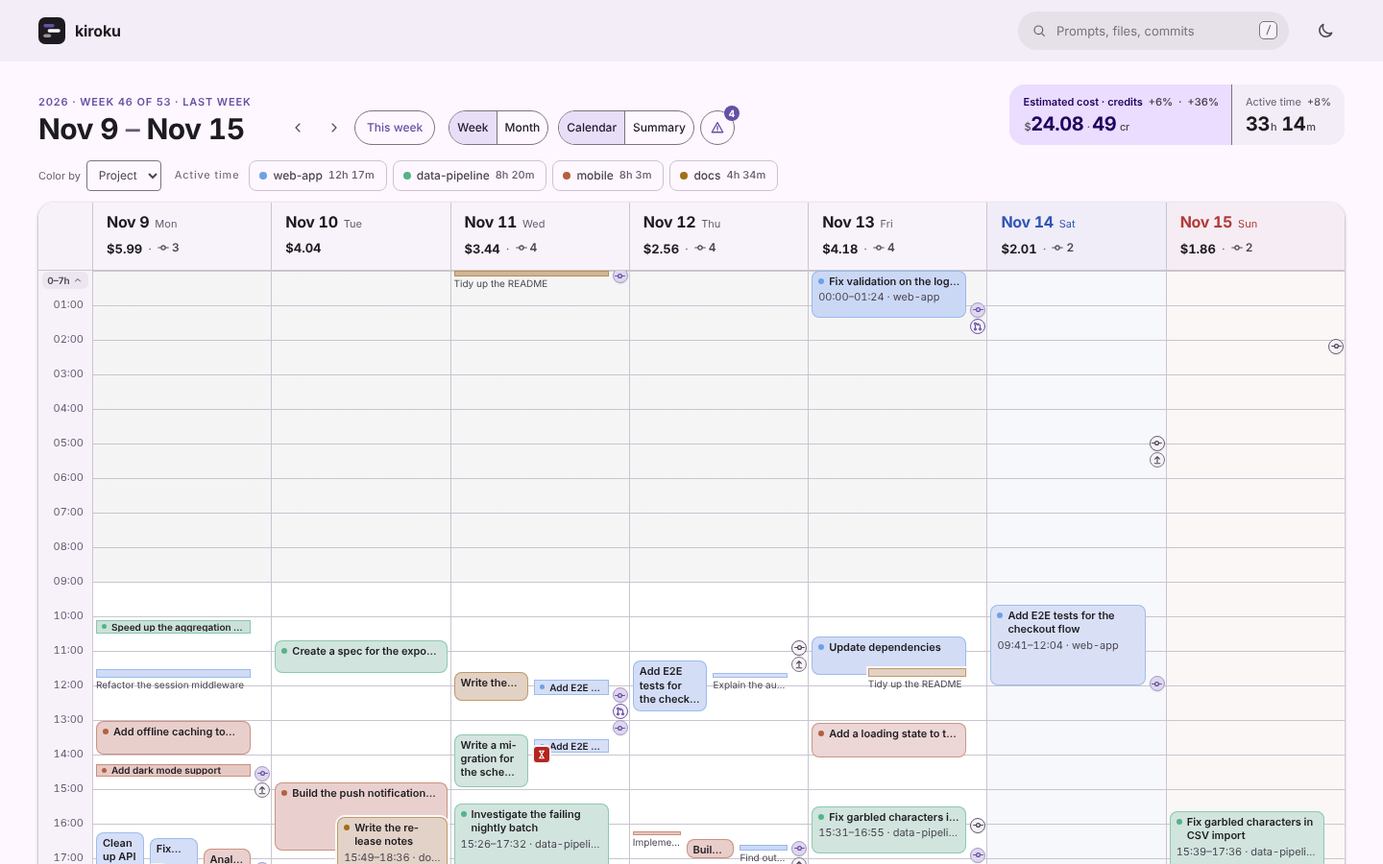
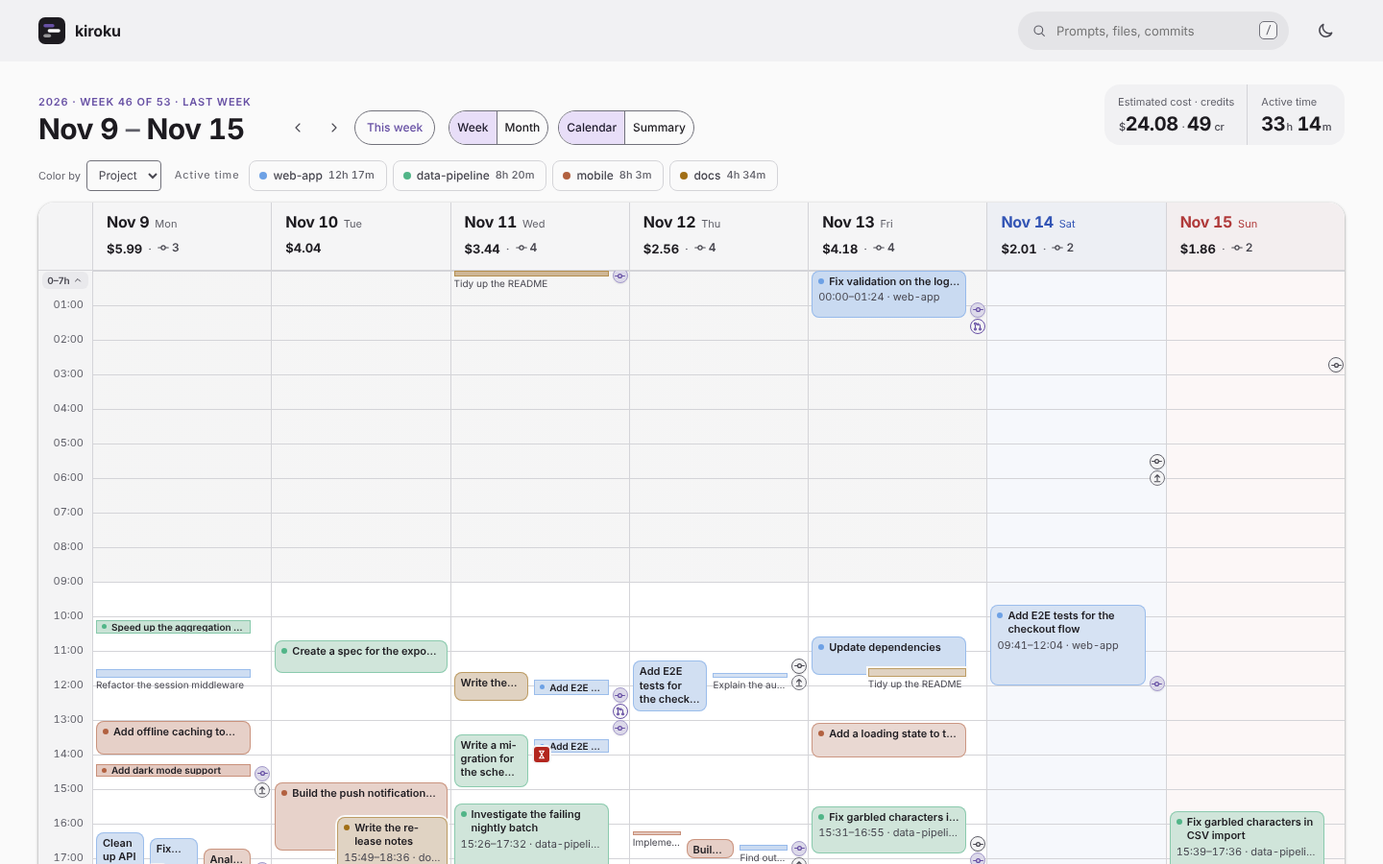
Neutral light theme, two-column summary without Advice, band without deltas
- Light theme: plain grays for backgrounds and surfaces (also on the
  loading and key hop pages)
- Band: no change-from-previous next to each figure and one style for
  all figures; the change shows next to the value in the breakdown
- Summary: drop the Advice card; chart cards in two columns, with By
  agent and a lone card across the full width
- Trend metric: a drop-down list at 820px and below, where the
  scrolling switch hid the metrics past its edge
- Hide the period row's Worth a look list for now; Change first and the
  summary's marks open the same dialogs
- Chart legends keep a plain label when formulas are hidden

diff --git a/internal/web/js/insight.js b/internal/web/js/insight.js
@@ -115,19 +115,8 @@ function insChart(k){
     sy = t("{x}: {r} of {n} {unit} from the highest; {d} from the median {m}{pc}", {x: (b.part ? t("pace") + " " : "") + fmtM(k, b.v), r, n: all.length, unit: insUnit(all.length), d: (d >= 0 ? "+" : "−") + fmtM(k, Math.abs(d)), m: fmtM(k, b.med), pc: pc == null ? "" : ` (${pc >= 0 ? "+" : ""}${pc}%)`}); }
   const th = !b || b.q1 == null ? "" : b.pos === "typical" ? t("Within the middle half of your past {unit}", {unit: insNoun()}) : b.better === false ? t("Outside the middle half, on the worse side; the advice lists where it came from") : b.better ? t("Outside the middle half, on the better side; keep what you changed") : b.pos === "high" ? t("Above the 75th pct of your past {unit}", {unit: insNoun()}) : t("Below the 25th pct of your past {unit}", {unit: insNoun()});
   return `${say(sy, th)}<figure class="insfig"><svg viewBox="0 0 ${W} ${Hh}" role="img" aria-label="${esc(t("{metric} over the last {n} {unit}", {metric: insName(k), n, unit: insUnit(n)}))}">${ticks}${band}${bars}</svg>
-    <figcaption><span class="lg iband">${esc(t("Middle half of the last {n} {unit}", {n: b ? b.n : 0, unit: insUnit(b ? b.n : 0)}))}</span><span class="lg imed">${fx(t("median"))}</span>${proj != null ? `<span class="lg iproj">${fx(`${t("pace")} = ${t("so far")} × ${t("period")} ÷ ${t("elapsed")}`)}</span>` : ""}<span class="lg iout">${fx(`< ${LO()} − 1.5×${SP()} ${t("or")} > ${HI()} + 1.5×${SP()}`)}</span></figcaption>
+    <figcaption><span class="lg iband">${esc(t("Middle half of the last {n} {unit}", {n: b ? b.n : 0, unit: insUnit(b ? b.n : 0)}))}</span><span class="lg imed">${fx(t("median"), "", t("median"))}</span>${proj != null ? `<span class="lg iproj">${fx(`${t("pace")} = ${t("so far")} × ${t("period")} ÷ ${t("elapsed")}`, "", t("At this pace"))}</span>` : ""}<span class="lg iout">${fx(`< ${LO()} − 1.5×${SP()} ${t("or")} > ${HI()} + 1.5×${SP()}`, "", t("Periods far outside the 25th–75th pct"))}</span></figcaption>
     <p class="sr">${esc(list)} — ${esc(insPosText(b))}</p></figure>`;
-}
-/* 改善のアドバイス：見直す候補を効き目の大きい順に 3 つまで。何が・いつもと比べて・何をするか（指標の説明の「打てる手」）と、該当するセッション。
-   よくなった指標も 1 つ返す（続けることがわかるように） */
-function insAdvice(F){
-  const items = F.slice(0, 3).map(f => { const id = GOTO[f.k] || f.k, b = MET[f.k] ? insBase(f.k) : null, h = H()[f.k] || H()[id] || {};
-    return `<li class="insa" title="${esc(f.L.why)}"><div class="insw"><b>${esc(f.L.see)}</b>${b ? insChip(b) : ""}${f.stake && f.stake.c >= 0.01 ? fx(`${t("cost involved")} = Σ ${usd(f.stake.c)} (${plural(f.stake.n, "session")})`, "", t("{usd} in {sessions}", {usd: usd(f.stake.c), sessions: plural(f.stake.n, "session")})) : ""}</div>${h.a ? `<p class="todo">${ico("ai", "ti")}${esc(h.a)}</p>` : ""}
-      ${f.ids.length || f.k === "repeats" ? `<button class="pill insgo" type="button" data-goto="${esc(id)}">${esc(f.ids.length ? plural(f.ids.length, "session") : t("Details"))}</button>` : ""}</li>`; });
-  const good = Object.keys(MET).map(k => insBase(k)).filter(b => b && b.better).sort((a, b) => Math.abs(b.v - b.med) / ((b.q3 - b.q1) || 1) - Math.abs(a.v - a.med) / ((a.q3 - a.q1) || 1))[0];
-  const keep = good ? `<p class="inskeep">${ico("check")}${esc(insName(good.k))} ${insChip(good)}</p>` : "";
-  if (!items.length) return `${keep}<p class="note">${esc(t("Nothing to change"))}</p>`;
-  return `<ol class="insadv">${items.join("")}</ol>${keep}`;
 }
 /* 見直す候補の対象の費用（そのセッションの推定費用の合計）。費用で表せない候補（利用上限・繰り返し・長すぎるプロンプト）は null */
 function insStake(f){
@@ -149,19 +138,25 @@ function insightH(F){
   const tabs = avail.map(x => `<button type="button" data-ins="${x}" aria-pressed="${x === k}" title="${esc(insName(x))}">${esc(INS_SHORT()[x])}</button>`).join("");
   const useCostW = ((period().S || {}).days || []).some(d => d.cost > 0); // 費用の記録がなければ、時間・件数の図になるので見出しもそう言う
   const card = (title, body, cls = "") => body ? `<div class="inscol${cls}"><h4>${esc(title)}</h4>${body}</div>` : "";
+  // グラフのカードは 2 列に並べる。エージェント別の表は幅いっぱい。2 枚の組にならずに 1 枚だけ残ったカードも幅いっぱいにする（空きを作らない）
+  const sel = `<select class="insksel" aria-label="${esc(t("Metric"))}">${avail.map(x => `<option value="${x}"${x === k ? " selected" : ""}>${esc(INS_SHORT()[x])}</option>`).join("")}</select>`; // 狭い画面では、切り替えの代わりに選択リスト（横に隠さない）
+  const cards = [
+    {h: `<div class="inscol"><div class="inshead"><h4>${esc(t("Trend"))}</h4><div class="segc insk trendk" role="group" aria-label="${esc(t("Metric"))}">${tabs}</div>${sel}</div>${insChart(k)}</div>`},
+    {h: card(useCostW ? (st.mode === "month" ? t("Cumulative cost vs the previous month") : t("Cumulative cost vs the previous week")) : (st.mode === "month" ? t("Cumulative active time vs the previous month") : t("Cumulative active time vs the previous week")), insCum())},
+    {h: card(t("By agent"), insAgents()), full: true},
+    {h: (b => b ? `<div class="inscol">${b}</div>` : "")(insWhere())}, {h: card(t("Tokens by type"), insTokens())},
+    {h: card(useCostW ? t("Cost by session length") : t("Sessions by length"), insHist())}, {h: card(t("Cost vs outputs per session"), insScatter())},
+    {h: card(t("Outputs"), insOutputs())}, {h: card(t("How you used AI"), insUsage())},
+    {h: card(t("When you worked"), insHeat())}, {h: card(t("How you worked"), insWork())},
+  ].filter(c => c.h);
+  let run = []; const out = [], flush = () => { if (run.length % 2) run[run.length - 1].full = true; out.push(...run); run = []; };
+  cards.forEach(c => { if (c.full){ flush(); out.push(c); } else run.push(c); }); flush();
   return `<section class="insight" aria-labelledby="ins-h"><h3 id="ins-h" class="sr">${esc(t("Overview"))}</h3>${insHeadlines(F)}
-    <div class="insgrid"><div class="insleft"><div class="inscol"><div class="inshead"><h4>${esc(t("Trend"))}</h4><div class="segc insk" role="group" aria-label="${esc(t("Metric"))}">${tabs}</div></div>${insChart(k)}</div>
-    ${card(useCostW ? (st.mode === "month" ? t("Cumulative cost vs the previous month") : t("Cumulative cost vs the previous week")) : (st.mode === "month" ? t("Cumulative active time vs the previous month") : t("Cumulative active time vs the previous week")), insCum())}</div>
-    ${card(t("Advice"), insAdvice(F), " insadvc")}</div>
-    <div class="insrow one">${card(t("By agent"), insAgents())}</div>
-    <div class="insrow two">${(b => b ? `<div class="inscol">${b}</div>` : "")(insWhere())}${card(t("Tokens by type"), insTokens())}</div>
-    <div class="insrow two">${card(useCostW ? t("Cost by session length") : t("Sessions by length"), insHist())}${card(t("Cost vs outputs per session"), insScatter())}</div>
-    <div class="insrow two">${card(t("Outputs"), insOutputs())}${card(t("How you used AI"), insUsage())}</div>
-    <div class="insrow one">${card(t("When you worked"), insHeat())}</div>
-    <div class="insrow one">${card(t("How you worked"), insWork())}</div></section>`;
+    <div class="insg">${out.map(c => c.full ? c.h.replace(/^<div class="inscol/, '<div class="inscol full') : c.h).join("")}</div></section>`;
 }
 function bindInsight(R){
   R.querySelectorAll("[data-ins]").forEach(b => b.onclick = () => { st.insK = b.dataset.ins; store.set("insK", st.insK); summary(); const nb = $("#review").querySelector(`[data-ins="${b.dataset.ins}"]`); if (nb) nb.focus(); });
+  R.querySelectorAll(".insksel").forEach(sl => sl.onchange = () => { st.insK = sl.value; store.set("insK", st.insK); summary(); const ns = $("#review .insksel"); if (ns) ns.focus(); });
   R.querySelectorAll(".insgo").forEach(b => b.onclick = () => insOpenWorth(b.dataset.goto, b));
   R.querySelectorAll("[data-where]").forEach(b => b.onclick = () => { st.insW = b.dataset.where; store.set("insW", st.insW); summary(); const nb = $("#review").querySelector(`[data-where="${b.dataset.where}"]`); if (nb) nb.focus(); });
   R.querySelectorAll(".insfig [data-sid]").forEach(c => { c.onclick = () => select(c.dataset.sid); c.onkeydown = e => { if (e.key === "Enter" || e.key === " "){ e.preventDefault(); select(c.dataset.sid); } }; }); // 散布図の点は、そのセッションを開く
@@ -187,7 +182,7 @@ function insScatter(){
   const sy = t("{m} of the {k} sessions costing {thr} or more had no output: {usd} = {pc}% of session cost", {m: bad.length, k: tq, thr: usd(thr), usd: usd(badC), pc: all$ ? Math.round(badC * 100 / all$) : 0});
   const th = bad.length ? t("Open the red points: research is fine; work that stopped partway is the cost to cut") : "";
   return `${say(sy, th)}<figure class="insfig"><svg viewBox="0 0 ${W} ${Hh}" role="group" aria-label="${esc(t("Cost and outputs per session"))}">${xt}${yt}${zone}${pts}
-    <text class="iax" x="${W - R}" y="${Hh - 1}">${esc(t("Estimated cost (√ scale) →"))}</text><text class="iax st" x="${L + 4}" y="${T + 10}">${esc(t("↑ Commits and PRs"))}</text></svg><figcaption><span class="lg izone">${fx(note)}</span></figcaption><p class="ifxs">${fx(`${t("outputs")} = ${t("commits")} + PR`)}${fx(`${usd(thr)} = max($0.50, P75(${t("cost")}))`)}</p></figure>`;
+    <text class="iax" x="${W - R}" y="${Hh - 1}">${esc(t("Estimated cost (√ scale) →"))}</text><text class="iax st" x="${L + 4}" y="${T + 10}">${esc(t("↑ Commits and PRs"))}</text></svg><figcaption><span class="lg izone">${fx(note, "", t("Costly sessions with no output"))}</span></figcaption><p class="ifxs">${fx(`${t("outputs")} = ${t("commits")} + PR`)}${fx(`${usd(thr)} = max($0.50, P75(${t("cost")}))`)}</p></figure>`;
 }
 /* 曜日×時間帯のヒートマップ：表示中の期間に AI と作業していた時間（重なりは 1 回）。月の表示では曜日ごとに足す。
    平日 9〜18 時の外の割合を、いつもの範囲と比べる */

diff --git a/internal/web/js/calendar.js b/internal/web/js/calendar.js
@@ -83,14 +83,21 @@ function shownName(){ const M = st.mode === "month", t0 = today0();
   if (M) return st.month.getTime() === monthOf(t0).getTime() ? t("This month") : dMY(st.month);
   return st.week.getTime() === mondayOf(t0).getTime() ? t("This week") : t("Week of {date}", {date: dMD(st.week)}); }
 /* 期間の要点（上の帯） */
+// kpiDelta は、帯の数（費用・クレジット・トークン・稼働時間）の前の期間との増減の文（なければ ""）。帯には出さず、押したときの内訳の大きな数に添える。
+// 途中の期間は、前の期間の同じ日までと比べる（vsPrev）。良し悪しの色は付けない
+function kpiDelta(id){
+  const {S: w, P: pw} = period(); if (!w) return "";
+  const M = st.mode === "month", V = vsPrev(pw, M ? "月" : "週"), vsT = V.n == null ? t(M ? "vs last month" : "vs last week") : t("vs {range}", {range: V.range});
+  const u = w.usage || {}, pu = pw && pw.usage;
+  const pair = {cost: [u.cost, V.of("cost", pu && pu.cost)], credits: [u.credits, V.of("credits", pu && pu.credits)], tokens: [u.tokens, V.of("tokens", pu && pu.tokens)], active: [w.active, V.of("active", pw && pw.active)]}[id];
+  if (!pair) return ""; const [a, b] = pair; if (b == null || !(b > 0) || a == null) return "";
+  return `${a === b ? "±0" : (a > b ? "+" : "−") + Math.round(Math.abs(a - b) / b * 100)}% ${vsT}`;
+}
 function kpis(){
   const {S:w, P:pw} = period(), K = $("#kpis"), M = st.mode === "month";
   K.classList.toggle("unf", filtering()); // 絞り込みの最中も、ここは全セッションの合計（薄くして、カレンダーの上に断り書き）
   if (!w){ K.innerHTML = `<div class="kpi"><div class="k">${esc(META.scope ? t("Not in this file") : shownName())}</div><div class="v">${esc(t("No records"))}</div></div>`; return; }
   // 押すと内訳のダイアログ（metric.js）。id のない数は押せない
-  // 前の期間との増減（%）。途中の期間は、前の期間の同じ日までと比べる（vsPrev）。良し悪しの色は付けない
-  const V = vsPrev(pw, M ? "月" : "週"), vsT = V.n == null ? t(M ? "vs last month" : "vs last week") : t("vs {range}", {range: V.range});
-  const dl = (a, b) => b == null || !(b > 0) || a == null ? "" : `<span class="dl" title="${esc(vsT)}">${a === b ? "±0" : (a > b ? "+" : "−") + Math.round(Math.abs(a - b) / b * 100)}%<span class="sr"> ${esc(vsT)}</span></span>`;
   const kpi = (k, v, tt, cls, id, d = "") => { const tg = id ? "button" : "div";
     return `<${tg} class="kpi${cls ? " " + cls : ""}"${id ? ` type="button" data-metric="${id}" aria-haspopup="dialog"` : ""}${tt || id ? ` title="${esc(tt ? (id ? t("{text}. Click for the breakdown.", {text: tt}) : tt) : t("Click for the breakdown"))}"` : ""}><div class="k">${d ? `<span>${esc(k)}</span>${d}` : esc(k)}</div><div class="v">${v}</div></${tg}>`; };
   const u = w.usage || {}, days = w.days.filter(d => d.active).length, pj = projection(w);
@@ -101,14 +108,14 @@ function kpis(){
     const xs = [[pc.cost, (v, txt) => txt ? usd(v) : usdH(v)], [pc.credits, (v, txt) => txt ? cr(v) : `${crN(v)}<small>&nbsp;cr</small>`]].filter(([x]) => x);
     const all = xs.every(([x]) => x.rest < 0);
     if (all) return kpi(t(M ? "Past last month's total" : "Past last week's total"), xs.map(([x, f]) => `<small>+</small>${f(-x.rest)}<small> ${esc(t("over"))}</small>`).join(`<small> · </small>`),
-      t(M ? "Last month's total was {v}" : "Last week's total was {v}", {v: xs.map(([x, f]) => f(x.ref, true)).join(" · ")}), "key", pc.cost ? "pace" : "paceCr");
+      t(M ? "Last month's total was {v}" : "Last week's total was {v}", {v: xs.map(([x, f]) => f(x.ref, true)).join(" · ")}), "", pc.cost ? "pace" : "paceCr");
     // 片方（多くはクレジット）だけ超えたときは、1 日の目安の数に超過を混ぜない（「$3.20 · +5 cr 超過」は 1 日の額に読める）。
     // 数は超えていない方の目安だけにし、超えた方は短い添え書き（「クレジットは超過」）と、ポップアップの文で伝える
     const ok = xs.filter(([x]) => x.rest >= 0), ov = xs.filter(([x]) => x.rest < 0);
     const v = ok.map(([x, f]) => f(x.per)).join(`<small> · </small>`) + (ov.length ? `<small class="ovr"> · ${esc(t("{v} over", {v: ov[0][1](-ov[0][0].rest, true)}))}</small>` : "");
     const tt = t(M ? "To stay at last month's total of {v}, for the {n} left" : "To stay at last week's total of {v}, for the {n} left", {v: ok.map(([x, f]) => f(x.ref, true)).join(" · "), n: plural(pc.left, "day")}) +
       ov.map(([x, f]) => " · " + t(M ? "{v} over last month's total of {r}" : "{v} over last week's total of {r}", {v: f(-x.rest, true), r: f(x.ref, true)})).join("");
-    return kpi(t(M ? "A day to match last month" : "A day to match last week"), v, tt, "key", ok[0][0] === pc.cost ? "pace" : "paceCr"); };
+    return kpi(t(M ? "A day to match last month" : "A day to match last week"), v, tt, "", ok[0][0] === pc.cost ? "pace" : "paceCr"); };
   const pace = pj ? t("If the pace of the first {n} days continues", {n: pj.days}) + bandNote(pj.cost != null ? pj.band.cost : pj.band.credits, pj.cost != null ? usd : cr) : "";
   // 帯は日々の判断に使う数だけ：左に使ったもの（推定費用とクレジット・前の期間並みの 1 日の目安・月末の推定（月）・稼働時間）、残したもの（コミット・PR など）は出さない（カレンダーの各日とサマリーの ② に）。
   // 稼働日・セッション / プロンプト・利用上限への到達は振り返りの数なので、サマリーと「見直す候補」に任せる（帯が多いとカレンダーと主役を争う）。
@@ -117,14 +124,10 @@ function kpis(){
   const useV = two(u.tokens ? (c == null ? tok(u.tokens) : usdH(c)) : "", u.credits ? `${crN(u.credits)}<small>&nbsp;cr</small>` : "");
   const useK = u.tokens && u.credits ? t(c == null ? "Tokens · credits" : "Estimated cost · credits") : u.tokens ? t(c == null ? "Tokens" : "Estimated cost") : t("Kiro credits");
   const pjV = pj ? two(pj.cost != null ? `<small>≈</small>${usdH(pj.cost)}` : "", pj.credits != null ? `<small>≈</small>${crN(pj.credits)}<small>&nbsp;cr</small>` : "") : "";
-  // 使用量が 2 つ（推定費用とクレジット）あるときは、増減も 2 つ、値と同じ順に並べる（1 つの % がどちらのものかわからないので）
-  const pu = pw && pw.usage, dTok = u.tokens ? (c == null ? dl(u.tokens, V.of("tokens", pu && pu.tokens)) : dl(u.cost, V.of("cost", pu && pu.cost))) : "",
-    dCr = u.credits ? dl(u.credits, V.of("credits", pu && pu.credits)) : "",
-    useD = u.tokens && u.credits && (dTok || dCr) ? `${dTok || `<span class="dl">—</span>`}<span class="dl">·</span>${dCr || `<span class="dl">—</span>`}` : dTok || dCr;
-  K.innerHTML = (useV ? kpi(useK, useV, u.tokens && c == null ? NOPRICE : "", "key", u.tokens ? (c == null ? "tokens" : "cost") : "credits", useD) : "") +
+  K.innerHTML = (useV ? kpi(useK, useV, u.tokens && c == null ? NOPRICE : "", "", u.tokens ? (c == null ? "tokens" : "cost") : "credits") : "") + // 増減（%）は帯に出さず、押したときの内訳に（kpiDelta）。枠の色もそろえる
     (pc && !pj ? paceK() : "") + // 月の途中は月末の推定を出すので、前の月並みの目安は出さない（内訳とサマリーにある）
-    (pjV ? kpi(t(pj.cost != null && pj.credits != null ? "Month-end (estimate)" : pj.cost != null ? "Month-end cost" : "Month-end credits"), pjV, pace, "key", pj.cost != null ? "projection" : "projectionCr") : "") +
-    kpi(t("Active time"), dur(w.active, true), n0 == null ? "" : M ? t("{days} of the {n} so far (this month is still in progress)", {days, n: plural(nd, "day")}) : t("{days} of the {n} so far (this week is still in progress)", {days, n: plural(nd, "day")}), "", "active", dl(w.active, V.of("active", pw && pw.active)));
+    (pjV ? kpi(t(pj.cost != null && pj.credits != null ? "Month-end (estimate)" : pj.cost != null ? "Month-end cost" : "Month-end credits"), pjV, pace, "", pj.cost != null ? "projection" : "projectionCr") : "") +
+    kpi(t("Active time"), dur(w.active, true), n0 == null ? "" : M ? t("{days} of the {n} so far (this month is still in progress)", {days, n: plural(nd, "day")}) : t("{days} of the {n} so far (this week is still in progress)", {days, n: plural(nd, "day")}), "", "active");
   K.classList.toggle("dense", K.children.length > 7); // 数が多い（月表示など）ときは、一回り小さくして 1 行に
   K.querySelectorAll("[data-metric]").forEach(b => b.onclick = () => openMetric(b.dataset.metric, b));
 }

diff --git a/internal/web/style.css b/internal/web/style.css
@@ -4,9 +4,9 @@
   color-scheme:light;
   --agm-mix:50%; /* 明るい地では、エージェントの頭文字の色を文字の色に寄せて読めるようにする（.agm） */
   /* 地と文字は、真っ白・真っ黒を避けて少し寄せる（読みやすさの基準 4.5:1 は保ったまま、ページ全体のコントラストを強くしすぎない） */
-  --bg:#fef7ff; --surface:#f7f2fa; --surface-2:#ece6f0; --ink:#1d1b20; --ink-2:#49454f; --ink-3:#625b71;
-  --s-lowest:#ffffff; --s-cont:#f3edf7; --s-highest:#e6e0e9; --pc:#eaddff; --on-pc:#21005d; --sc:#e8def8; --on-sc:#1d192b; --inv:#322f35; --on-inv:#f5eff7; /* M3 の面の段（lowest・container・highest）、主・副のコンテナ、反転（トースト） */
-  --rule:#cac4d0; --rule-2:#79747e; --acc:#6750a4; --acc-ink:#6750a4; --on-acc:#ffffff; --heatk:20%; --acc-soft:rgba(103,80,164,.08); --warn:#b3261e; --on-warn:#ffffff;
+  --bg:#fafafa; --surface:#f4f4f5; --surface-2:#e9e9ec; --ink:#1d1b20; --ink-2:#47464f; --ink-3:#5f5f68; /* 地と面は色みのない灰色（M3 の基準色の淡い色みは、緑や桃色に見えることがあるので使わない） */
+  --s-lowest:#ffffff; --s-cont:#f1f1f3; --s-highest:#e4e4e7; --pc:#eaddff; --on-pc:#21005d; --sc:#e8def8; --on-sc:#1d192b; --inv:#322f35; --on-inv:#f5eff7; /* M3 の面の段（lowest・container・highest）、主・副のコンテナ、反転（トースト） */
+  --rule:#d4d4d8; --rule-2:#71717a; --acc:#6750a4; --acc-ink:#6750a4; --on-acc:#ffffff; --heatk:20%; --acc-soft:rgba(103,80,164,.08); --warn:#b3261e; --on-warn:#ffffff;
   --weekend:rgba(35,38,44,.02);
   --sat:#3355b5; --sun:#b03a3a; --sat-bg:rgba(51,85,181,.045); --sun-bg:rgba(176,58,58,.045); /* 土曜は青、日曜は赤（日本のカレンダーと同じ） */
   --shadow:0 1px 2px rgba(0,0,0,.3),0 1px 3px 1px rgba(0,0,0,.15); /* M3 の elevation 1 */
@@ -1121,3 +1121,10 @@ header{background:var(--s-cont);border-bottom:0}
 /* 上限の印から開いたときの、流れの中のその出来事 */
 .tl li.ev.flash{outline:2px solid var(--warn);outline-offset:2px}
 :root:not(.showfx) .ichip{font-family:var(--sans)} /* 言葉のチップは、式の等幅でなく本文の字で */
+/* サマリーのグラフのカードは 2 列（1000px 以下は 1 列）。.full は幅いっぱい */
+.insg{display:grid;grid-template-columns:repeat(2,minmax(0,1fr));gap:16px;align-items:stretch}
+.insg>.inscol.full{grid-column:1/-1}
+@media (max-width:1000px){.insg{grid-template-columns:minmax(0,1fr)}}
+/* トレンドの指標：広い画面は切り替え、狭い画面は選択リスト（横に隠れて選べなくならないように） */
+.insksel{display:none;height:32px;padding:0 8px;border:1px solid var(--rule-2);border-radius:8px;background:var(--surface);color:var(--ink);font:inherit;font-size:var(--fs-sm)}
+@media (max-width:820px){.insk.trendk{display:none}.insksel{display:inline-block}}

diff --git a/internal/web/js/summary.js b/internal/web/js/summary.js
@@ -10,7 +10,8 @@ function summary(){
   const pct = v => v == null ? esc(t("Unknown")) :`${v}<small>%</small>`;
   const times = n => `${n}`;
   const F = insRank(findList(w, pw, unit)); // 見直す候補の一覧・「まず見直す」・アドバイスで同じ並び
-  WK.innerHTML = flagSum(F); WK.hidden = false; const wd = WK.querySelector("details"); if (wd) wd.addEventListener("click", e => { if (e.target.closest(".hb")) e.preventDefault(); }); lastFlags = F; // 見直す候補は、カレンダーの上（期間の要点のすぐ下）に出す。押すと真ん中のダイアログで開く
+  WK.innerHTML = ""; WK.hidden = true; // 期間の行の ⚠（見直す候補の一覧）は、いったん出さない。候補は「まず見直す」とサマリーの印から開く
+  const wd = WK.querySelector("details"); if (wd) wd.addEventListener("click", e => { if (e.target.closest(".hb")) e.preventDefault(); }); lastFlags = F; // 見直す候補は、カレンダーの上（期間の要点のすぐ下）に出す。押すと真ん中のダイアログで開く
   // エージェントで絞る：2 つ以上のエージェントが動いた期間だけ、切り替えを出す（期間の集計の agents）。絞っている間はサマリーの中だけが、そのエージェントの分になる
   const ags = ((w.shares || {}).source || []).map(x => x.key).filter(k => w.agents && w.agents[k]), ag = ags.includes(st.insAg) ? st.insAg : "";
   const agSw = ags.length >= 2 ? `<div class="insagbar"><span class="lab">${esc(t("Agent"))}</span><div class="segc insk" role="group" aria-label="${esc(t("Agent"))}">${["", ...ags].map(k => `<button type="button" data-ag="${esc(k)}" aria-pressed="${k === ag}">${esc(k || t("All agents"))}</button>`).join("")}</div>${ag ? `<span class="note">${esc(t("Only {agent}. Its active time counts time it shared with other agents in full (the By agent table and the legend split it). Git commits made by hand are left out. The figures above the calendar stay for all agents", {agent: ag}))}</span>` : ""}</div>` : "";

diff --git a/internal/web/js/metric.js b/internal/web/js/metric.js
@@ -229,6 +229,7 @@ function openMetric(id, from){
     // 稼働日は帯から外したので、作業時間の内訳の数字に添える（途中の期間は今日までの日数で）
     const n0 = soFar(), nd = n0 == null ? w.days.length : Math.min(n0, w.days.length), ad = w.days.filter(d => d.active).length;
     big = id === "active" ? `${dur(tot || 0, true)}<small> · ${esc(t("Active days"))} ${ad} ${esc(n0 == null ? t("of {n}", {n: nd}) : t("of {n} so far", {n: nd}))}</small>` : id === "sessions" ? `${w.sessions}<small>/</small>${w.prompts}` : id === "cost" ? usdH(tot) : esc(m.f(tot || 0));
+    { const dt = kpiDelta(id); if (dt) big += `<small class="mdl"> · ${esc(dt)}</small>`; } // 前の期間との増減（帯には出さない）
     body = mDays(w, m);
     if (id === "sessions"){ // セッション数はエージェント別の集計にないので、期間にかかったセッションから数える
       const by = new Map(); inRange.forEach(s => by.set(s.source, (by.get(s.source) || 0) + (s.nPrompts || 0)));

diff --git a/internal/web/loading.html b/internal/web/loading.html
@@ -8,7 +8,7 @@
 <style>
 /* kiroku serve が最初の読み込みを終えるまで出す画面。外のものは読まない。
    エージェントごとの進み具合（/progress）を並べ、読み終わったものから件数と時間を出す */
-:root{color-scheme:light;--bg:#fef7ff;--surface:#f7f2fa;--ink:#1d1b20;--ink-2:#49454f;--ink-3:#625b71;--rule:#cac4d0;--acc:#6750a4;--warn:#b3261e;
+:root{color-scheme:light;--bg:#fafafa;--surface:#f4f4f5;--ink:#1d1b20;--ink-2:#47464f;--ink-3:#5f5f68;--rule:#d4d4d8;--acc:#6750a4;--warn:#b3261e;
   --glow:rgba(103,80,164,.14);--shadow:0 1px 2px rgba(16,18,24,.05),0 24px 48px -20px rgba(16,18,24,.2);
   --c0:#6da1e5;--c1:#b26140;--c2:#51b588;--c3:#a16f16;--c4:#ca7393;--c5:#508b4a;--c6:#9794e3;--c7:#008a9d;--other:#9aa0ab; /* style.css と同じ 8 色 */
   --sans:"Inter",-apple-system,BlinkMacSystemFont,"Segoe UI",Roboto,"Helvetica Neue",Arial,system-ui,sans-serif;--mono:ui-monospace,"SFMono-Regular",Menlo,Consolas,monospace;

diff --git a/internal/web/js/i18n.js b/internal/web/js/i18n.js
@@ -54,6 +54,9 @@ const JA_TEXT = {
   "Dark mode": "ダークモード",
   "0–7h": "0〜7時",
   "Show formulas": "式を表示",
+  "Periods far outside the 25th–75th pct": "下位25%点〜上位25%点から大きく外れた期間",
+  "At this pace": "このペースなら",
+  "Costly sessions with no output": "費用が高いのに成果のないセッション",
   "no text reply": "文の返事なし",
   "{v} over": "{v} 超過",
   "To stay within the previous period's {prev}: at most {rem} tomorrow": "前の期間の {prev} に収めるなら：明日は {rem} まで",

diff --git a/internal/cli/servekey.go b/internal/cli/servekey.go
@@ -320,7 +320,7 @@ func hopPage(to, head string) string {
 }
 
 // hopStyle の色は loading.html の --bg と --acc。#msg.show は hopKeyPage で鍵をしまえなかったときの知らせ（すぐに見せる）。
-const hopStyle = `<style>html{--bg:#fef7ff;--acc:#6750a4;background:var(--bg);color:var(--bg)}` +
+const hopStyle = `<style>html{--bg:#fafafa;--acc:#6750a4;background:var(--bg);color:var(--bg)}` +
 	`body{margin:0;min-height:100vh;display:grid;place-items:center;font:13px/1.5 system-ui,sans-serif}` +
 	`a{color:inherit;animation:show .3s 2s forwards}@keyframes show{to{color:var(--acc)}}` +
 	`#msg.show{color:CanvasText;max-width:32em;padding:0 16px}</style>`

diff --git a/docs/guide.md b/docs/guide.md
@@ -68,7 +68,7 @@ The old forms `kiroku --serve`, `--json`, `-o` and `--weekly` / `--monthly` have
   - Usage is the estimated cost ("Est. cost"); tokens when no model used in the week or month shown is in the price table; credits when it has no tokens
   - Active time shows as the length of the bars in the week calendar, and as the shading in the month calendar (thin bars show the project breakdown). Point at a day or week for its active time, sessions, tokens, estimated cost and credits
 - The calendar describes recorded activity, not progress, completion or productivity
-- Above the calendar, the figures for deciding what to do next (see the metrics table): what you used (what it left behind, such as Git commits, lines changed and pull requests, is in each calendar day and the summary's Outputs card, not here). Items with no records are not shown; when the figures don't fit next to the period's name, they move to their own row; except on phones they always stay in that one row, set smaller when the window is narrower (a value that still doesn't fit ends with … and is in full in its tooltip and breakdown). Next to each label, the change from the previous week or month in percent (such as "Active time −22%"; with both estimated cost and credits, one change for each, in the same order as the values); while the period is in progress it is compared with the same days of the previous one. When your history starts inside the previous period, there is no comparison, since the missing days would count as zero. No color marks it good or bad
+- Above the calendar, the figures for deciding what to do next (see the metrics table): what you used (what it left behind, such as Git commits, lines changed and pull requests, is in each calendar day and the summary's Outputs card, not here). Items with no records are not shown; when the figures don't fit next to the period's name, they move to their own row; except on phones they always stay in that one row, set smaller when the window is narrower (a value that still doesn't fit ends with … and is in full in its tooltip and breakdown). All figures share one plain style. The change from the previous week or month in percent (such as "−22% vs last week") is not in the band: press a figure to see it next to the value in its breakdown; while the period is in progress it is compared with the same days of the previous one. When your history starts inside the previous period, there is no comparison, since the missing days would count as zero. No color marks it good or bad
   - On a tinted background: usage (estimated cost and Kiro credits side by side in one box, such as "$37.32 · 80 cr"; tokens instead of the cost when no model used is in the price table), A day to match last week while the week is in progress, and Month-end (estimate) in the month view while the month is in progress (in its place: the month view shows where the month is heading instead of a day's budget). A box that shows both cost and credits opens the cost's breakdown, which links to the credits' breakdown
   - Then Active time
   - After a green divider, what it left behind: Git commits with how many AI ran (such as "22 · 14 by AI"; AI commits when no Git repository could be read), lines changed and pull requests created (files changed and pushes are in the Git commits breakdown)
@@ -81,7 +81,7 @@ The old forms `kiroku --serve`, `--json`, `-o` and `--weekly` / `--monthly` have
   - The other figures in the panels: commits, pushes and pull requests list each one; focus blocks, oversized prompts and the session figures list the blocks, prompts or sessions behind them; wait time is split by how long you took to reply; and ratios such as cost per prompt show how they are worked out
 - The period is written like "Sep 28 – Oct 4" or "October 2026" ("9月28日 – 10月4日" or "2026年10月" in Japanese), and the line above it says "This week", "Last week", "This month" or "Last month" when that is what you are looking at. ‹ › (or ← →) move to the previous or next week or month. You can't move past the current week or month; "This week" / "This month" brings you back to it. A period with no records is named by its week or month, such as "Week of Sep 28"
 - Each day in the calendar shows its own figures (in the day headings of the week calendar and in each day of the month calendar). Point at a bar, band or point in any chart (or touch it) to see the values for that day or item
-- "Worth a look", a warning icon with a count in the row with the period controls, opens the list of metrics that crossed a threshold, in priority order; press one to open it in a dialog in the middle of the screen, without leaving where you are: what was observed, why it matters, its 8-week trend, why it was flagged, the related sessions (press one to open its details), the threshold, and what the metric is, what it doesn't tell you and what to try. `Esc`, the × in its top-right corner or a click outside the dialog returns to the link you pressed
+- "Worth a look" is the set of metrics that crossed a threshold. "Change first" in the summary's figures names the first of them (the period row no longer has a ⚠ list), and the small warning triangle next to a metric's name marks the others; press either to open it in a dialog in the middle of the screen, without leaving where you are: what was observed, why it matters, its 8-week trend, why it was flagged, the related sessions (press one to open its details), the threshold, and what the metric is, what it doesn't tell you and what to try. `Esc`, the × in its top-right corner or a click outside the dialog returns to what you pressed
 - "Color by" Project / Agent is the selector at the start of the legend (Agent by default). The numbers in the legend are active time, split between sessions that ran at the same time like in "Where it went"; click an item to show or hide it. On a wide window the legend stays in one row; when it doesn't fit, scroll it sideways (the right edge fades while there is more). In the week calendar, each week picks the height of an hour (44px, or 36px when needed) that fits its working hours, from the morning start to the latest end, in the calendar
 - Click a bar to show its details. On wide screens the left column is the prompt flow with times, and the right column has, from the top, what you can do (the resume command and "Copy prompt" for a review), the key numbers (active time, prompts, wait time, cost and tokens) and the rest (what was left behind: commits, pull requests, files edited by AI, each path a link: to the commit on the remote when there is one, otherwise to the file on this computer in the HTML file; subagents; and, folded under "More details", the history file, models used and tools used). On narrow screens the same parts come in the order: what you can do, the key numbers, the prompt flow, the rest. The keyboard (`Tab`) goes through them in that order on any width
   - When the session is behind a metric flagged in "Worth a look" for the period shown, those metrics are listed under the title; press one to open the same dialog
@@ -105,7 +105,7 @@ The old forms `kiroku --serve`, `--json`, `-o` and `--weekly` / `--monthly` have
   - A session's "History file" (under "More details" in session details): opens the original history of that session. In `kiroku serve`, "Open" saves it from the view (only history files of loaded sessions, inside the folders kiroku reads history from or `kiroku archive`'s folder, are served, and only to the view on your machine); in `kiroku html` it opens via `file://`. SQLite histories cannot be opened, so you can only copy the path
 - The page shows either the calendar or the weekly or monthly summary: switch with View "Calendar | Summary" next to Week | Month (or `V`); kiroku remembers the choice. Only the page scrolls: nothing is fixed, the top scrolls away, and the week calendar shows the whole day with no scroll of its own. 0:00–7:00 is folded at the top, at a quarter of the height as a shaded band, so the working hours fit the first screen; in a week with sessions in those hours it starts unfolded, so that work isn't squeezed. "0–7h" at the top of the hours unfolds or folds it, and kiroku remembers the choice. The day headings stick under the page header while you scroll, so you always see which day is which; on narrow windows the calendar scrolls sideways and the headings follow it. When you open this week and its work starts further down, the page opens scrolled to that hour (scroll up for the figures; not in the demo). Data sources and the footer (when the page was made, the version and a link to GitHub) are at the bottom in both views.
 - The summary is one page of cards (see [Weekly and monthly summary](#weekly-and-monthly-summary)); nothing is folded. Press a figure's value to open its breakdown, or its "?" for what it means
-  - Worth a look: a metric that crossed a threshold has a small warning triangle next to its name in the summary; press it to open the same dialog as "Worth a look" above. Its 8-week trend (8 months in month view) starts at the first period with records, labels that period and the one shown with their values, and says whether higher or lower is worth a look. A metric is flagged by a fixed threshold, shown right under the headline in the dialog ("Threshold: 1+ hit"), not by being high or low within its trend. To see whether something you tried worked, check the trend in later periods
+  - Worth a look: a metric that crossed a threshold has a small warning triangle next to its name in the summary; press it, or the "Change first" figure, to open its dialog. Its 8-week trend (8 months in month view) starts at the first period with records, labels that period and the one shown with their values, and says whether higher or lower is worth a look. A metric is flagged by a fixed threshold, shown right under the headline in the dialog ("Threshold: 1+ hit"), not by being high or low within its trend. To see whether something you tried worked, check the trend in later periods
   - At the bottom, "Data sources" (history read, the newest agent version seen and record kinds kiroku doesn't know, retention and the price table for estimated cost; agents with no sessions are folded under "Not found: N") at the very bottom, always folded into one line; a ⚠ next to its name marks something that needs your attention (a file that couldn't be read, history about to be deleted at its default setting or at the next cleanup because Kiro Crew keeps it 0 days, or models not in the price table, or models priced as a similar model ID). The footer under it shows when the view was generated, the kiroku version (a link to its release) and a link to the GitHub repository; they only open in your browser when you press them. To report a problem, run `kiroku doctor --report` and paste its output (kinds and counts only) into a new issue
 - Press "?" on any metric to see, in a popover next to it, its definition, then a small table of what it tells you, what it doesn't tell you, and what to try. For metrics with a history (such as active time, prompts, tokens, Git commits, estimated cost, the cache share and the metrics "Worth a look" can flag), it also shows the 8-week trend (8 months in month view), whether or not the metric is flagged, so you can check whether something you tried changed it
 - Search (top right, `/`; on phones a magnifier that widens when you press it): in addition to prompts, titles, projects, branches and agents, it searches files edited by AI, pull requests and commits made during each session (subject, hash, files). The calendar shows only matching sessions and the commits and pushes made during them (plus commits that match themselves). Active time, tokens and credits can't be split by search, so while searching (or while items are hidden in the legend) the key figures at the top and those figures under each date stay totals for all sessions and are shown in gray, with a note above the calendar. All-time results appear between the legend and the calendar (and the summary is hidden while searching) in two lists, Sessions and Commits (matched on subject, body, hash and files changed), newest first, with excerpts showing where they matched. Each list shows 10 results first and scrolls in its own box, so the calendar stays close below; "Show 50 more (10 of M shown)" adds up to 50 at a time, and "Show the remaining N" the rest. Items hidden in the legend are left out. Enter or ↓ in the search box moves the focus to the first result; ↑ and ↓ move between results, and ↑ on the first result goes back to the search box. Press a result to show its details (the calendar moves to its week)
@@ -162,19 +162,18 @@ The summary opens with an overview of charts, computed in the browser from your 
 Each chart opens with a takeaway computed from the data (for example "pace $22.86: 4 of 6 weeks from the highest; −$2.45 from the median $25.31") and, where the data supports one, a next step with numbers (for example "To stay within the previous period's $31.23: at most $12.97 in the 1 day left"). Cards in the same row are the same height.
 
 - **Figures** (in one row on wide windows, in three or two columns on narrower ones; the same figures as the band above the calendar and more, in the order you'd use them): estimated cost with its pace; Kiro credits (or tokens); where you stand against the previous period (a day to match it, how far over it you already are, the month-end estimate, or the difference for a finished period), each with its formula; active time; cost per commit with its formula; and what to change first with its threshold. Press a value for the same breakdown as in the band
-- **Trend**: bars for the last periods of a metric you pick (cost, time, cost per commit, cache, corrections, wait), with the usual range as a band, the median dashed, the pace of the period in progress as a dashed outline, and red dots on periods far outside the range (1.5 times its width beyond it)
+- **Trend**: bars for the last periods of a metric you pick (cost, time, cost per commit, cache, corrections, wait; a drop-down list on narrow windows), with the usual range as a band, the median dashed, the pace of the period in progress as a dashed outline, and red dots on periods far outside the range (1.5 times its width beyond it)
 - **Cost so far vs last period**: the cumulative cost (or active time) by day, against the previous period's line
-- **Advice**: up to three items from "Worth a look", in the same order as the Worth a look list and "Change first": items outside your usual range on the worse side first, then items that can't be compared, then items within the range, and within each, largest cost involved first (the cost of the sessions the item is about, shown as Σ, such as `cost involved = Σ $11.05 (3 sessions)`), each with its comparison, what to try and its sessions (point at an item for why it matters), and one metric outside the middle half on the better side
 - **Cost by session length**: estimated cost per length bucket (under 5 minutes to over 2 hours), with the number of sessions in each and the median length
 - **Cost and outputs**: each session by estimated cost and commits plus pull requests; costly sessions (top quarter, $0.5 or more) with no output are red. Press a point to open its session
 - **When you worked**: a weekday × hour heatmap of active time (overlapping sessions count once), the busiest three hours and the share outside weekday 9:00–18:00. Each row ends with the total for that weekday, so the values don't depend on pointing at a cell
 - **Tokens by type**: input, output, cache write and cache read as one stacked bar and as rows with the count and share, with the share read from cache = cache read ÷ (input + cache write + cache read) against your past periods
 
-The cards, in this order:
+The chart cards are in two columns (one on narrow windows); a card left alone in a row, and By agent, take the full width. In this order:
 
 - **Agent** (above the figures, when more than one agent ran in the period): "All agents" or one agent. With one agent, every card in the summary counts only that agent's sessions, including the comparison with past periods; Git commits made by hand, which belong to no agent, are left out. The band above the calendar and the calendar itself stay for all agents. kiroku remembers the choice
 - **By agent** (when more than one agent ran): one row per agent with active time and its share, sessions, prompts, estimated cost, Kiro credits and tokens, side by side so costs and credits are never added together. Time when agents ran at once is split between them
-- **Where it went**: estimated cost (or credits, tokens or time when there is no cost) by project, agent or model, largest first, as bars with the value and share, beside **Tokens by type**
+- **Where it went**: estimated cost (or credits, tokens or time when there is no cost) by project, agent or model, largest first, as bars with the value and share, next to **Tokens by type**
 - **Cost by session length** (see above) beside **Cost and outputs** (the scatter), then **Outputs**: Git commits with the share by AI, lines changed with the average per commit, pull requests, sessions that reached a commit or PR, and cost per commit, each divided figure with its formula
 - **How you used AI**: tokens with the output share, cache reads, Kiro credits, prompts, cost per prompt, subagents with their types, and the month-end estimates, beside **Outputs**
 - **When you worked** (the heatmap), across the page

diff --git a/changes/ux-review.changed.md b/changes/ux-review.changed.md
@@ -1,6 +1,6 @@
 - Summary: comparisons with your past periods read in plain words ("$31.23: above your usual $19.92–$27.35"); "Show formulas" next to the heading shows the inequalities and the formulas behind computed figures, and the choice is remembered
 - Summary: the figures at the top wrap into three or two columns on narrower windows instead of scrolling sideways; on a phone the By agent table lists each agent's figures as label and value, and the Agent switch wraps
-- Summary: "Worth a look", "Change first" and the advice use one order: items outside your usual range on the worse side first, then items that can't be compared, then items within the range, each by the cost involved. "Change first" is red only when its metric is worse than usual
+- Summary: "Change first" and the Worth a look dialogs use one order: items outside your usual range on the worse side first, then items that can't be compared, then items within the range, each by the cost involved. "Change first" is red only when its metric is worse than usual
 - Summary: with one agent selected, a note says that its active time counts time shared with other agents in full (the By agent table and the legend split it) and that the figures above the calendar stay for all agents. The By agent shares use the same active time as the band
 - Summary: advice about repeated prompts and long background names each agent's project instructions (CLAUDE.md, AGENTS.md or Kiro steering); without cost records the cumulative chart and the length chart are titled by what they show (active time, sessions); the outputs headline says the share is of Claude Code sessions
 - Summary: the heatmap's headline says its total, and a note explains why it can be a little shorter than active time

diff --git a/changes/layout-pass.changed.md b/changes/layout-pass.changed.md
@@ -1,0 +1,5 @@
+- The light theme uses plain grays for backgrounds and surfaces instead of Material's tinted ones; the loading page and the page that opens kiroku with its key match
+- The band above the calendar no longer shows the change from the previous period next to each figure, and all its figures share one style; press a figure to see the change next to the value in its breakdown
+- Summary: the Advice card is gone ("Change first" and the warning marks open the same details), and the chart cards are in two columns, with By agent and any card left alone in a row across the full width
+- Summary: on narrow windows the Trend's metric is a drop-down list; before, the metrics past the edge of the scrolling switch could not be reached
+- The ⚠ "Worth a look" list in the period row is hidden for now; "Change first" and the warning marks in the summary open the same dialogs
